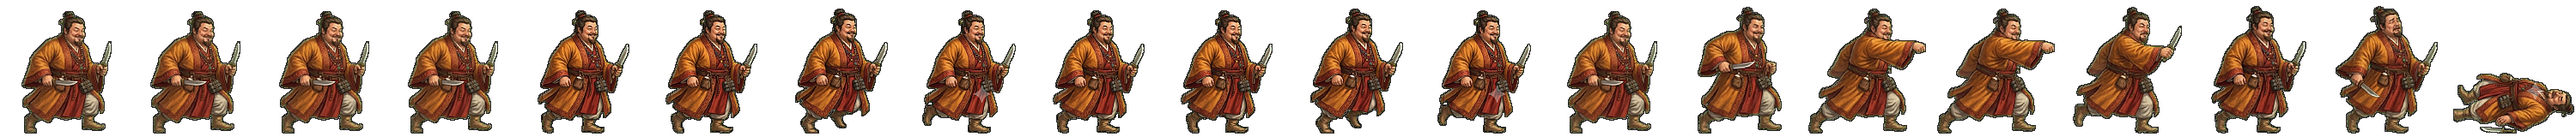
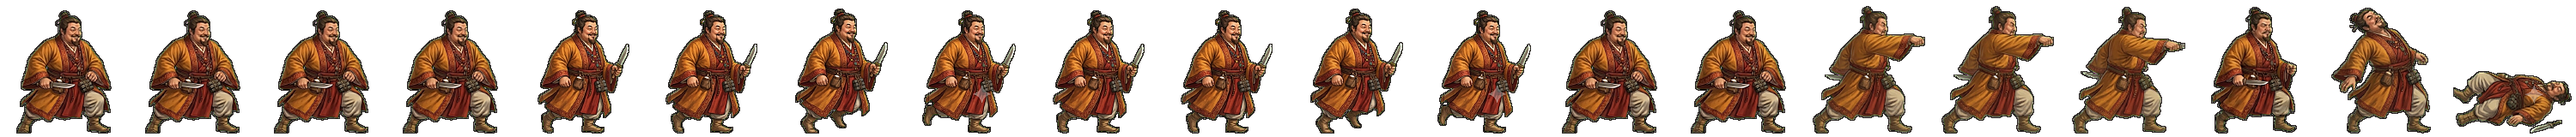
전투 띠 새로: jita 동작 띠 다시 — 형이 구움 (굽기 꾸러미 · 검수 1·3번) (형 11-08)
Claude-Session: https://claude.ai/code/session_01TRiuNAG8xSjdmjCFpc8Rd5

Changed region(s): [[0.589, 0.0625, 1.0, 0.9688], [0.0, 0.0938, 0.217, 0.9688]]

diff --git a/src/ui/realm/battle-strikes.ts b/src/ui/realm/battle-strikes.ts
@@ -143,7 +143,7 @@ const CONTACT: Readonly<Record<string, [number, number, number]>> = {
   'gen-haebi': [14, 0.87, 0.53], 'gen-heo': [14, 0.94, 0.46], 'gen-hyeokgeose': [14, 0.83, 0.94],
   'gen-hyeopbo': [14, .93, .21], 'gen-malgalgi': [14, 0.88, 0.28], 'gen-mari': [14, .98, .47],
   'gen-oi': [14, .98, .48], 'gen-onjo': [14, 0.83, 0.93], 'gen-soebi': [14, 0.80, 0.95],
-  'gen-soseono': [14, 0.92, 0.31], 'gen-maryeo': [14, 0.91, 0.79], 'gen-horselord': [14, 0.89, 0.25], 'gen-olddaeso': [14, 0.93, 0.91], 'gen-maro': [14, 0.97, 0.49], 'gen-gwaeyu': [14, 0.98, 0.71], 'gen-daemusin': [14, 0.91, 0.38], 'gen-tahae': [14, 0.91, 0.74], 'gen-ocheongan': [14, 0.82, 0.49], 'gen-yusugan': [14, 0.95, 0.70], 'gen-odogan': [14, 0.96, 0.33], 'gen-pidogan': [14, 0.94, 0.75], 'gen-yeodogan': [14, 0.93, 0.57], 'gen-adogan': [14, 0.95, 0.41], 'gen-musoe': [14, 0.94, 0.39], 'gen-suro': [14, 0.82, 0.53], 'gen-waechief': [14, 0.95, 0.68], 'gen-hojin': [14, 0.97, 0.64], 'gen-jita': [14, 0.94, 0.34], 'gen-guryema': [14, 0.89, 0.28], 'gen-jibaekho': [14, 0.97, 0.33], 'gen-sobeol': [14, 0.95, 0.33], 'gen-alpyeong': [14, 0.95, 0.54], 'gen-hogong': [14, 0.98, 0.27], 'gen-geumbawi': [14, 0.91, 0.92], 'gen-keundol': [14, 0.90, 0.68], 'gen-jinha': [14, 0.76, 0.93], 'gen-duman': [14, 0.97, 0.39], 'gen-gomok': [14, 0.94, 0.57], 'gen-hneoul': [14, 0.92, 0.27], 'gen-tneoul': [14, 0.84, 0.57], 'gen-sdallae': [14, 0.89, 0.29], 'gen-yucheongan': [14, 0.97, 0.64], 'gen-sincheongan': [14, 0.91, 0.71], 'gen-singwigan': [14, 0.98, 0.21], 'gen-mdallae': [14, 0.98, 0.29], 'gen-mulbeom': [14, 0.95, 0.39], 'gen-beomi': [14, 0.88, 0.43], 'gen-danbi': [14, 0.90, 0.30], 'gen-mulsae': [14, 0.92, 0.46], 'gen-darae': [14, 0.89, 0.29], 'gen-mir': [14, 0.91, 0.33], 'gen-wan': [14, 0.94, 0.30], 'gen-gom': [14, 0.94, 0.74], 'gen-sagong': [14, 0.79, 0.96], 'gen-halla': [14, 0.86, 0.46], 'gen-areum': [14, 0.86, 0.65], 'gen-dokmudeom': [14, 0.95, 0.28], 'gen-beom': [14, 0.98, 0.28], 'gen-baram': [14, 0.96, 0.24], 'gen-goeun': [14, 0.95, 0.66], 'gen-byeol': [14, 0.76, 0.96], 'gen-sinneoul': [14, 0.95, 0.33], 'gen-haesol': [14, 0.95, 0.39], 'gen-odi': [14, 0.95, 0.37], 'gen-irang': [14, 0.86, 0.30], 'gen-dalli': [14, 0.89, 0.32], 'gen-bakdal': [14, 0.94, 0.27], 'gen-noeul': [14, 0.88, 0.27], 'gen-maehwa': [14, 0.90, 0.31], 'gen-gaon': [14, 0.98, 0.48], 'gen-eomni': [14, 0.96, 0.42], 'gen-nuri': [14, 0.98, 0.42], 'gen-bira': [14, 0.88, 0.42], 'gen-gureum': [14, 0.98, 0.42],
+  'gen-soseono': [14, 0.92, 0.31], 'gen-maryeo': [14, 0.91, 0.79], 'gen-horselord': [14, 0.89, 0.25], 'gen-olddaeso': [14, 0.93, 0.91], 'gen-maro': [14, 0.97, 0.49], 'gen-gwaeyu': [14, 0.98, 0.71], 'gen-daemusin': [14, 0.91, 0.38], 'gen-tahae': [14, 0.91, 0.74], 'gen-ocheongan': [14, 0.82, 0.49], 'gen-yusugan': [14, 0.95, 0.70], 'gen-odogan': [14, 0.96, 0.33], 'gen-pidogan': [14, 0.94, 0.75], 'gen-yeodogan': [14, 0.93, 0.57], 'gen-adogan': [14, 0.95, 0.41], 'gen-musoe': [14, 0.94, 0.39], 'gen-suro': [14, 0.82, 0.53], 'gen-waechief': [14, 0.95, 0.68], 'gen-hojin': [14, 0.97, 0.64], 'gen-jita': [14, 0.93, 0.29], 'gen-guryema': [14, 0.89, 0.28], 'gen-jibaekho': [14, 0.97, 0.33], 'gen-sobeol': [14, 0.95, 0.33], 'gen-alpyeong': [14, 0.95, 0.54], 'gen-hogong': [14, 0.98, 0.27], 'gen-geumbawi': [14, 0.91, 0.92], 'gen-keundol': [14, 0.90, 0.68], 'gen-jinha': [14, 0.76, 0.93], 'gen-duman': [14, 0.97, 0.39], 'gen-gomok': [14, 0.94, 0.57], 'gen-hneoul': [14, 0.92, 0.27], 'gen-tneoul': [14, 0.84, 0.57], 'gen-sdallae': [14, 0.89, 0.29], 'gen-yucheongan': [14, 0.97, 0.64], 'gen-sincheongan': [14, 0.91, 0.71], 'gen-singwigan': [14, 0.98, 0.21], 'gen-mdallae': [14, 0.98, 0.29], 'gen-mulbeom': [14, 0.95, 0.39], 'gen-beomi': [14, 0.88, 0.43], 'gen-danbi': [14, 0.90, 0.30], 'gen-mulsae': [14, 0.92, 0.46], 'gen-darae': [14, 0.89, 0.29], 'gen-mir': [14, 0.91, 0.33], 'gen-wan': [14, 0.94, 0.30], 'gen-gom': [14, 0.94, 0.74], 'gen-sagong': [14, 0.79, 0.96], 'gen-halla': [14, 0.86, 0.46], 'gen-areum': [14, 0.86, 0.65], 'gen-dokmudeom': [14, 0.95, 0.28], 'gen-beom': [14, 0.98, 0.28], 'gen-baram': [14, 0.96, 0.24], 'gen-goeun': [14, 0.95, 0.66], 'gen-byeol': [14, 0.76, 0.96], 'gen-sinneoul': [14, 0.95, 0.33], 'gen-haesol': [14, 0.95, 0.39], 'gen-odi': [14, 0.95, 0.37], 'gen-irang': [14, 0.86, 0.30], 'gen-dalli': [14, 0.89, 0.32], 'gen-bakdal': [14, 0.94, 0.27], 'gen-noeul': [14, 0.88, 0.27], 'gen-maehwa': [14, 0.90, 0.31], 'gen-gaon': [14, 0.98, 0.48], 'gen-eomni': [14, 0.96, 0.42], 'gen-nuri': [14, 0.98, 0.42], 'gen-bira': [14, 0.88, 0.42], 'gen-gureum': [14, 0.98, 0.42],
   'gen-biryu': [14, 0.90, 0.35], 'gen-geumha': [14, 0.94, 0.61], 'gen-geota': [14, 0.86, 0.47], 'gen-soebo': [14, 0.87, 0.57],
   'gen-gaennae': [14, 249 / 264, 47 / 160],
   'gen-budeul': [14, 266 / 280, 51 / 160],

diff --git a/src/realm/data/art.ts b/src/realm/data/art.ts
@@ -554,7 +554,7 @@ export const GEN_ANIM: Readonly<Partial<Record<string, { ar: number; body: numbe
   sobeol: { ar: 147 / 160, body: 0.900 }, // 11-08 초상대로 다시 (형: 「투구 쓰고 원본과 다르다」 · 제미나이 걷기 4×2 + 동작 4×2 → 20컷 · assets_src/realm/gemini/generals2) · 11-08 처음 · 사로 소벌 · 흰 수염 촌장·조 이삭 매단 지팡이
   jibaekho: { ar: 156 / 160, body: 0.894 }, // 11-08 초상대로 다시 (형: 「투구 쓰고 원본과 다르다」 · 제미나이 걷기 4×2 + 동작 4×2 → 20컷 · assets_src/realm/gemini/generals2) · 11-08 처음 · 사로 지백호 · 흰 범가죽 망토·창
   guryema: { ar: 151 / 160, body: 0.900, bow: true }, // 11-08 초상대로 다시 (형: 「투구 쓰고 원본과 다르다」 · 제미나이 걷기 4×2 + 동작 4×2 → 20컷 · assets_src/realm/gemini/generals2) · 11-08 처음 · 사로 구례마 · 늑대털 두건·검은 누비옷·활
-  jita: { ar: 150 / 160, body: 0.887 }, // 11-08 초상대로 다시 (형: 「투구 쓰고 원본과 다르다」 · 제미나이 걷기 4×2 + 동작 4×2 → 20컷 · assets_src/realm/gemini/generals2) · 11-08 처음 · 사로 지타 · 주황 비단옷 장사꾼·짧은 칼
+  jita: { ar: 150 / 160, body: 0.887 }, // 11-08 초상대로 다시 (형: 「투구 쓰고 원본과 다르다」 · 제미나이 걷기 4×2 + 동작 4×2 → 20컷 · assets_src/realm/gemini/generals2) · 11-08 처음 · jita 동작 띠 다시 — 형이 구움 (굽기 꾸러미 · 검수 1·3번)
   hojin: { ar: 148 / 160, body: 0.900 }, // 11-08 초상대로 다시 (형: 「투구 쓰고 원본과 다르다」 · 제미나이 걷기 4×2 + 동작 4×2 → 20컷 · assets_src/realm/gemini/generals2) · 11-08 처음 · 사로 호진 · 검은 털 망토·긴 도끼
   waechief: { ar: 151 / 160, body: 0.894 }, // 11-08 초상대로 다시 (형: 「투구 쓰고 원본과 다르다」 · 제미나이 걷기 4×2 + 동작 4×2 → 20컷 · assets_src/realm/gemini/generals2) · 11-08 처음 · 왜 우두머리 · 문신·잿빛 털 망토·곧은 넓은 칼
   suro: { ar: 153 / 160, body: 0.894 }, // 11-08 초상대로 다시 (형: 「투구 쓰고 원본과 다르다」 · 제미나이 걷기 4×2 + 동작 4×2 → 20컷 · assets_src/realm/gemini/generals2) · 11-08 처음 · 가락 수로왕 · 흰 금빛 비단옷·붉은 머리띠·곧은 칼
